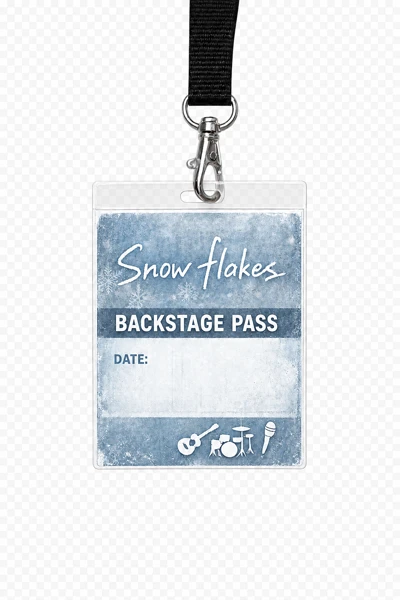
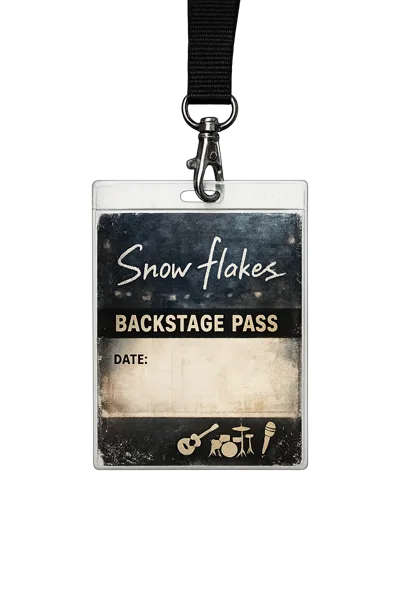
sweets: Spring/Summerセクション整理・画像修正
- EVENT/SPECIALヘッダーを維持し、アコ内に▶ 2026 Spring/Summerサブ見出し追加
- Spring/Summerの表示順をSpring先に変更
- backstage_pass.webp: 元のデザインに復元（Spring用）
- backstage_pass_summer.webp: 青いデザインに修正（Summer用）

Changed region(s): [[0.21, 0.0, 0.78, 0.81], [0.57, 0.0, 0.6, 0.09]]

diff --git a/sweets/index.html b/sweets/index.html
@@ -1231,37 +1231,17 @@
             </div>
           </div>
 
-          <!-- SUMMER -->
-          <div id="rare-summer-section" style="margin-bottom:10px;" data-no-replace>
-            <div onclick="toggleRareSection('summer')" style="display:flex;align-items:center;justify-content:space-between;background:rgba(125,211,252,0.08);border-radius:8px;padding:10px 14px;cursor:pointer;user-select:none;">
-              <span style="font-family:'Cormorant Garamond',serif;font-size:10px;letter-spacing:5px;color:#7dd3fc;">▶ 2026 Summer</span>
-              <span id="rare-summer-arrow" style="font-size:13px;color:#7dd3fc;transition:transform 0.3s;">›</span>
-            </div>
-            <div id="rare-summer-body" style="overflow:hidden;max-height:0;transition:max-height 0.35s ease;">
-              <div style="padding:20px 8px 12px;display:flex;flex-direction:column;align-items:center;gap:24px;">
-                <!-- バックステージパス -->
-                <div style="display:flex;flex-direction:column;align-items:center;gap:14px;">
-                  <img id="summer-rare-bp-img" src="../item/backstage_pass_summer.webp" alt="バックステージパス" style="width:120px;height:180px;object-fit:contain;filter:grayscale(1) brightness(1.6) contrast(0.5);opacity:0.4;transition:all 0.3s;">
-                  <div style="text-align:center;">
-                    <div style="display:flex;align-items:center;justify-content:center;gap:10px;margin-bottom:8px;">
-                      <span id="summer-rare-bp-name" style="font-family:'Cormorant Garamond',serif;font-size:10px;letter-spacing:2px;color:#475569;">SWEETs 2026 Summer バックステージパス</span>
-                      <span id="summer-rare-bp-check" style="font-family:'Cormorant Garamond',serif;font-size:11px;color:#7dd3fc;letter-spacing:3px;"></span>
-                    </div>
-                    <p id="summer-rare-bp-desc" style="font-family:'Noto Serif JP',serif;font-size:11px;color:#334155;line-height:2;margin:0;letter-spacing:4px;">???</p>
-                  </div>
-                </div>
-              </div>
-            </div>
-          </div>
-
           <!-- SPRING -->
           <div id="rare-spring-section" style="margin-bottom:10px;" data-no-replace>
             <div onclick="toggleRareSection('spring')" style="display:flex;align-items:center;justify-content:space-between;background:rgba(249,168,212,0.08);border-radius:8px;padding:10px 14px;cursor:pointer;user-select:none;">
-              <span style="font-family:'Cormorant Garamond',serif;font-size:10px;letter-spacing:5px;color:#f9a8d4;">▶ 2026 Spring</span>
+              <span style="font-family:'Cormorant Garamond',serif;font-size:10px;letter-spacing:5px;color:#f9a8d4;">EVENT / SPECIAL</span>
               <span id="rare-spring-arrow" style="font-size:13px;color:#f9a8d4;transition:transform 0.3s;">›</span>
             </div>
             <div id="rare-spring-body" style="overflow:hidden;max-height:0;transition:max-height 0.35s ease;">
-              <div style="padding:20px 8px 12px;display:flex;flex-direction:column;align-items:center;gap:24px;">
+              <div style="padding:20px 8px 12px;display:flex;flex-direction:column;gap:24px;">
+
+                <!-- ▶ 2026 Spring -->
+                <p style="font-family:'Cormorant Garamond',serif;font-size:10px;letter-spacing:4px;color:#f9a8d4;margin:0;">▶ 2026 Spring</p>
 
                 <!-- バックステージパス -->
                 <div style="display:flex;flex-direction:column;align-items:center;gap:14px;">
@@ -1284,6 +1264,34 @@
                       <span id="spring-rare-shikishi-check" style="font-family:'Cormorant Garamond',serif;font-size:11px;color:#f9a8d4;letter-spacing:3px;"></span>
                     </div>
                     <p id="spring-rare-shikishi-desc" style="font-family:'Noto Serif JP',serif;font-size:11px;color:#94a3b8;line-height:2;margin:0;">SWEETs 2026 Springの記念に残された、ヒナタの色紙。<br>多くは語らない文字と、少しだけ長く払われたサインが残っている。</p>
+                  </div>
+                </div>
+
+              </div>
+            </div>
+          </div>
+
+          <!-- SUMMER -->
+          <div id="rare-summer-section" style="margin-bottom:10px;" data-no-replace>
+            <div onclick="toggleRareSection('summer')" style="display:flex;align-items:center;justify-content:space-between;background:rgba(125,211,252,0.08);border-radius:8px;padding:10px 14px;cursor:pointer;user-select:none;">
+              <span style="font-family:'Cormorant Garamond',serif;font-size:10px;letter-spacing:5px;color:#7dd3fc;">EVENT / SPECIAL</span>
+              <span id="rare-summer-arrow" style="font-size:13px;color:#7dd3fc;transition:transform 0.3s;">›</span>
+            </div>
+            <div id="rare-summer-body" style="overflow:hidden;max-height:0;transition:max-height 0.35s ease;">
+              <div style="padding:20px 8px 12px;display:flex;flex-direction:column;gap:24px;">
+
+                <!-- ▶ 2026 Summer -->
+                <p style="font-family:'Cormorant Garamond',serif;font-size:10px;letter-spacing:4px;color:#7dd3fc;margin:0;">▶ 2026 Summer</p>
+
+                <!-- バックステージパス -->
+                <div style="display:flex;flex-direction:column;align-items:center;gap:14px;">
+                  <img id="summer-rare-bp-img" src="../item/backstage_pass_summer.webp" alt="バックステージパス" style="width:120px;height:180px;object-fit:contain;filter:grayscale(1) brightness(1.6) contrast(0.5);opacity:0.4;transition:all 0.3s;">
+                  <div style="text-align:center;">
+                    <div style="display:flex;align-items:center;justify-content:center;gap:10px;margin-bottom:8px;">
+                      <span id="summer-rare-bp-name" style="font-family:'Cormorant Garamond',serif;font-size:10px;letter-spacing:2px;color:#475569;">SWEETs 2026 Summer バックステージパス</span>
+                      <span id="summer-rare-bp-check" style="font-family:'Cormorant Garamond',serif;font-size:11px;color:#7dd3fc;letter-spacing:3px;"></span>
+                    </div>
+                    <p id="summer-rare-bp-desc" style="font-family:'Noto Serif JP',serif;font-size:11px;color:#334155;line-height:2;margin:0;letter-spacing:4px;">???</p>
                   </div>
                 </div>
 
